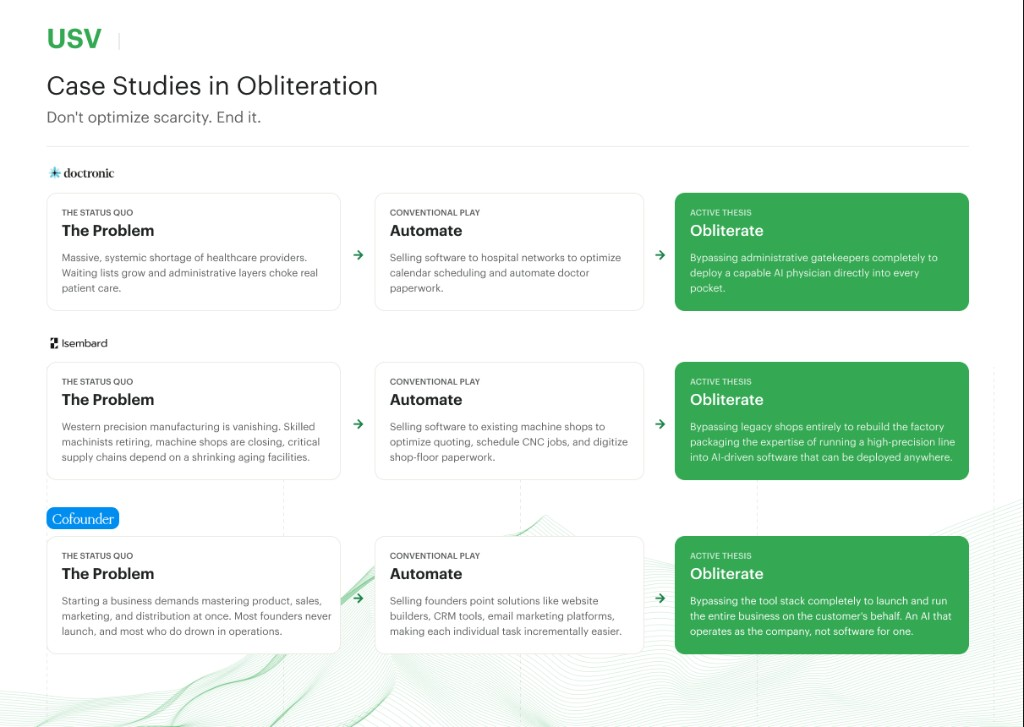
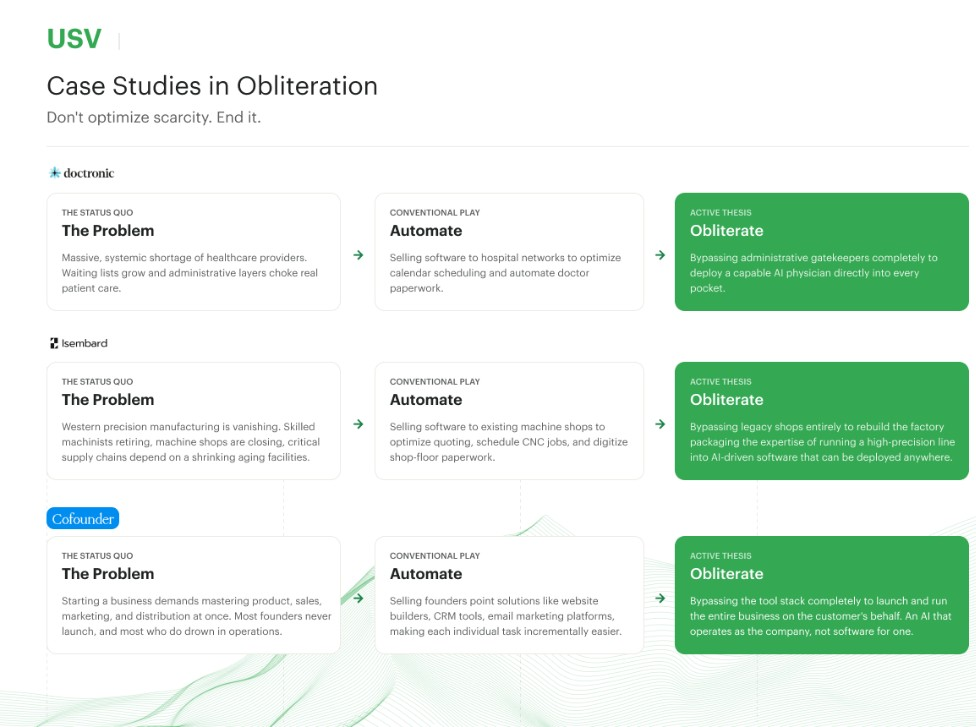
Crop Case Studies image to remove excess right margin.

diff --git a/src/lib/posts.js b/src/lib/posts.js
@@ -28,7 +28,7 @@ export const posts = [
         type: "image",
         src: "/assets/obliterate-case-studies.png",
         alt: "Case Studies in Obliteration — Don't optimize scarcity. End it.",
-        width: 1024,
+        width: 976,
         height: 727,
       },
       {